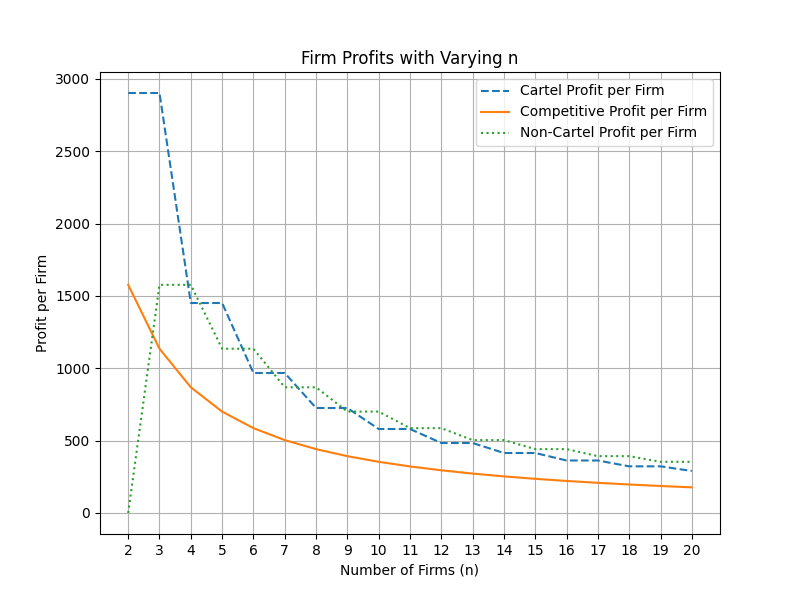
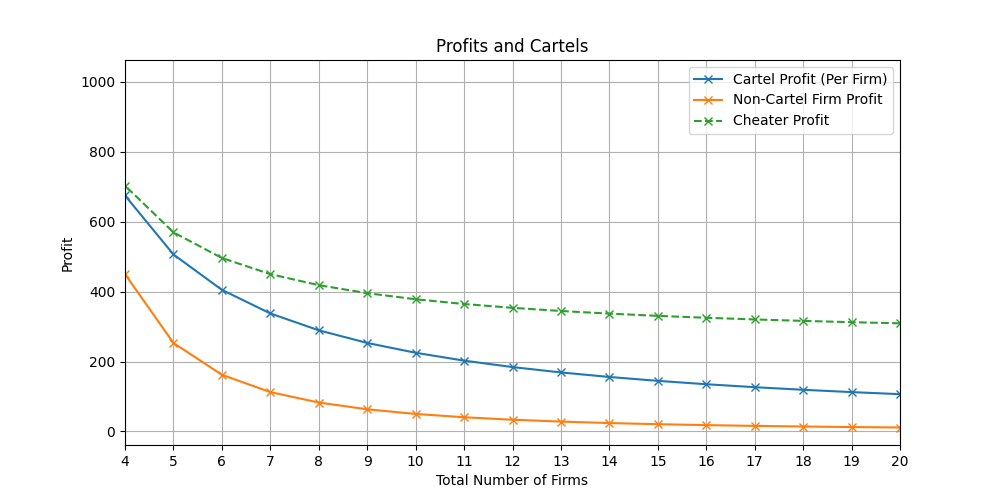
extension fixes
I used different representation in the code compared to the submission paper + fixed the cartel behaviour

Changed region(s): [[0.0312, 0.06, 0.9062, 0.99]]

diff --git a/Cournot_Cartel.py b/Cournot_Cartel.py
@@ -3,115 +3,62 @@ Cartel Formation in Cournot Oligopoly
 
 From the Cournot game we know that as the number of player increases, the market price decreases and the quantity produced by each firm decreases. However, firms can collude to form a cartel to increase their profits. 
 
-In this script, we want to see how firms can form a cartel to maximise their profit and how would the total number of players in the market would impact their decision of joining a cartel.
+In this script, we want to see how firms can form a cartel to maximise their profit and how would the total number of players in the market would impact the profit of the cartel.
 
 '''
 
 import numpy as np
 import matplotlib.pyplot as plt
-import pandas as pd
-from GameTheoryModel import CournotGame
 
-# Game Setup
-alpha = 100  # Demand intercept
-beta = 0.7   # Demand slope
-cost_per_firm = 0.5  # Constant marginal cost for all firms
-max_firms = 20  # Maximum number of firms
+alpha = 100
+beta = 0.5
+c = 10
+n = range(3, 21)
+cartel_size = 2
 
-num_firms_list = np.arange(2, max_firms + 1)
-cartel_profits = []
-competitive_profits = []
-non_cartel_profits = []
-cartel_price = []
-competitive_price = []
+P_ct = [] # Total cartel profit
+P_cpf = [] # Cartel profit per firm
+P_nc = [] # Non-cartel profit
+P_ch = [] # Cheater profit
 
-# Loop through n firms
-for n in num_firms_list:
-    cost_params = [cost_per_firm] * n  # Assume all firms have the same cost
+for i in n:
+    nc_size = i - cartel_size
+    
+    # Cartel as a joint monopolist: Maximizing total profit
+    Q_ct = (alpha - c) / (2 * beta) # Total quantity for cartel
+    Q_cartel_individual = Q_ct / cartel_size
+    
+    # Cournot competition for non-cartel firms
+    Q_nc = (alpha - c - beta * Q_ct) / (beta * (1 + nc_size))
+    Q_t = cartel_size * Q_cartel_individual + nc_size * Q_nc
 
-    cournot_competition = CournotGame(alpha=alpha, beta=beta, cost_params=cost_params, n=n)
-    guess = np.ones(n) * 10
-    tol = 1e-4
-    error = 1
+    P_market = alpha - beta * Q_t
+    
+    profit_cartel_total = cartel_size * ((P_market - c) * Q_cartel_individual)
+    profit_cartel_per_firm = (P_market - c) * Q_cartel_individual
+    profit_non_cartel = (P_market - c) * Q_nc
+    
+    # Cheating scenario (1 defector)
+    Q_ch = (alpha - c - beta * ((cartel_size - 1) * Q_cartel_individual + nc_size * Q_nc)) / (2 * beta)
+    Q_tch = (cartel_size - 1) * Q_cartel_individual + Q_ch + nc_size * Q_nc
+    P_cheat = alpha - beta * Q_tch
+    profit_cheater = (P_cheat - c) * Q_ch
+    
+    P_ct.append(profit_cartel_total)
+    P_cpf.append(profit_cartel_per_firm)
+    P_nc.append(profit_non_cartel)
+    P_ch.append(profit_cheater)
 
-    while error > tol:
-        new_guess = np.array([cournot_competition.best_response(np.delete(guess, i), cost_params[i]) for i in range(n)])
-        error = np.linalg.norm(new_guess - guess)
-        guess = new_guess
-
-    Q_competition = np.sum(guess)
-    P_competition = cournot_competition.demand_function(Q_competition)
-    profits_competition = [P_competition * guess[i] - cournot_competition.cost_function(guess[i], cost_params[i]) for i in range(n)]
-
-    # Cartel Scenario
-    cartel_size = max(1, n // 2)  # Half of the firms attempt to collude
-    competitive_firms = n - cartel_size  # Remaining firms act independently
-
-    # Cartel firms act as a single monopolist, but share profits
-    Q_cartel = (alpha - cost_per_firm) / (2 * beta)  # Monopoly quantity split among cartel members
-    q_cartel_per_firm = Q_cartel / cartel_size
-    P_cartel = cournot_competition.demand_function(Q_cartel)
-    profits_cartel = [(P_cartel * q_cartel_per_firm) - (cost_per_firm * q_cartel_per_firm)] * cartel_size
-
-    # Non-cartel firms behave like Cournot competitors
-    if competitive_firms > 0:
-        non_cartel_cournot = CournotGame(alpha=alpha, beta=beta, cost_params=[cost_per_firm] * competitive_firms, n=competitive_firms)
-        guess_non_cartel = np.ones(competitive_firms) * 10  # Initial guess for non-cartel firms
-        error = 1
-
-        while error > tol:
-            new_guess_non_cartel = np.array([
-                non_cartel_cournot.best_response(np.delete(guess_non_cartel, i), cost_per_firm) for i in range(competitive_firms)
-            ])
-            error = np.linalg.norm(new_guess_non_cartel - guess_non_cartel)
-            guess_non_cartel = new_guess_non_cartel
-
-        Q_non_cartel = np.sum(guess_non_cartel)
-        P_non_cartel = non_cartel_cournot.demand_function(Q_non_cartel)
-        profits_non_cartel = [P_non_cartel * guess_non_cartel[i] - non_cartel_cournot.cost_function(guess_non_cartel[i], cost_per_firm) for i in range(competitive_firms)]
-    else:
-        profits_non_cartel = [0]  # If no non-cartel firms exist
-
-    # Store results
-    cartel_profits.append(np.mean(profits_cartel))
-    competitive_profits.append(np.mean(profits_competition))
-    non_cartel_profits.append(np.mean(profits_non_cartel))
-    cartel_price.append(P_cartel)
-    competitive_price.append(P_competition)
-
-# Plot Competitive vs Cartel vs Non-Cartel Profits
-plt.figure(figsize=(8, 6))
-plt.plot(num_firms_list, cartel_profits, label="Cartel Profit per Firm", linestyle="dashed")
-plt.plot(num_firms_list, competitive_profits, label="Competitive Profit per Firm")
-plt.plot(num_firms_list, non_cartel_profits, label="Non-Cartel Profit per Firm", linestyle="dotted")
-plt.xticks(num_firms_list)
-plt.xlabel("Number of Firms (n)")
-plt.ylabel("Profit per Firm")
-plt.title("Firm Profits with Varying n")
+# Plot results
+plt.figure(figsize=(10, 5))
+plt.plot(n, P_cpf, label='Cartel Profit (Per Firm)', marker='x')
+plt.plot(n, P_nc, label='Non-Cartel Firm Profit', marker='x')
+plt.plot(n, P_ch, label='Cheater Profit', linestyle='dashed', marker='x')
+plt.xlabel('Total Number of Firms')
+plt.ylabel('Profit')
+plt.title('Profits and Cartels')
+plt.xticks(range(4, 21, 1))
+plt.xlim(4, 20)
 plt.legend()
 plt.grid()
 plt.show()
-
-# Plot Competitive vs Cartel Prices
-plt.figure(figsize=(8, 6))
-plt.plot(num_firms_list, cartel_price, label="Cartel Price", linestyle="dashed")
-plt.plot(num_firms_list, competitive_price, label="Competitive Market Price")
-plt.xlabel("Number of Firms (n)")
-plt.ylabel("Market Price")
-plt.xticks(num_firms_list)
-plt.title("Market Price with Varying n")
-plt.legend()
-plt.grid()
-plt.show()
-
-# Export results to DataFrame
-df_results = pd.DataFrame({
-    "Number of Firms": num_firms_list,
-    "Cartel Profit per Firm": cartel_profits,
-    "Competitive Profit per Firm": competitive_profits,
-    "Non-Cartel Profit per Firm": non_cartel_profits,
-    "Cartel Price": cartel_price,
-    "Competitive Market Price": competitive_price
-})
-
-df_results.to_csv("cartel_vs_competition_results.csv", index=False)

diff --git a/GameTheoryModel.py b/GameTheoryModel.py
@@ -12,11 +12,10 @@ class GameTheoryModel:
         self.bounds = bounds if bounds else [(0, 50)] * n
 
     def demand_function(self, Q):
-        """Computes price given total quantity Q"""
-        return max((self.alpha - Q) / self.beta, 0)
+        return max(self.alpha - self.beta * Q, 0)
+
 
     def cost_function(self, q, beta):
-        """Computes cost for a firm"""
         return beta * q
 
 class CournotGame(GameTheoryModel):
@@ -24,11 +23,11 @@ class CournotGame(GameTheoryModel):
         super().__init__(**kwargs)
 
     def best_response(self, q_others, beta):
-        """Computes the best response function for a firm in n-player Cournot competition"""
+        """Best reponse for n players"""
         return max((self.alpha - sum(q_others) - self.beta * beta) / self.n, 0)  # Generalized for n players
 
     def equilibrium(self, tol=1e-4):
-        """Finds Nash equilibrium using an iterative best response method for any number of firms"""
+        """Iterative response to for nash equilibrium"""
         quantities = np.array(self.initial_guess)
         error = 1
 

diff --git a/README.md b/README.md
@@ -5,14 +5,17 @@ DESE61008 Game Theory and Mechanism Coursework: Cournot and Stackelberg games
 
 <!-- File Directory & Explainations -->
 ## File Directory
-- **`GameTheoryModel`**: Class defining different games
-- **`BaseSimulation`**: Simulation of Cournot and Stackelberg Game under the given initial conditions
+- **`GameTheoryModel.py`**: Class defining different games
+- **`Cournot_BaseModel.py`**: Simulation of Cournot Game under the given initial conditions
+- **`Cournot_costeff.py`**: Simulation of Cournot Game wiht varying cost efficiency
+- **`Cournot_Cartel.py`**: Extension task to see the relationship between cartel's profit and varying number of firms (and cheaters performance)
+
 
 <!-- CONTACT -->
 ## Contact
-Raphassit (Beam) Suwiwatchai - beam.suwiwatchai21@imperial.ac.uk
+Raphassit (Beam) Suwiwatchai - [beam.suwiwatchai21@imperial.ac.uk](mailto:beam.suwiwatchai21@imperial.ac.uk)
 
-Issac Siy - issac.siy21@imperial.ac.uk
+Issac Siy - [issac.siy21@imperial.ac.uk](mailto:issac.siy21@imperial.ac.uk)
 
 <!-- ACKNOWLEDGMENTS -->
 ## Acknowledgments
